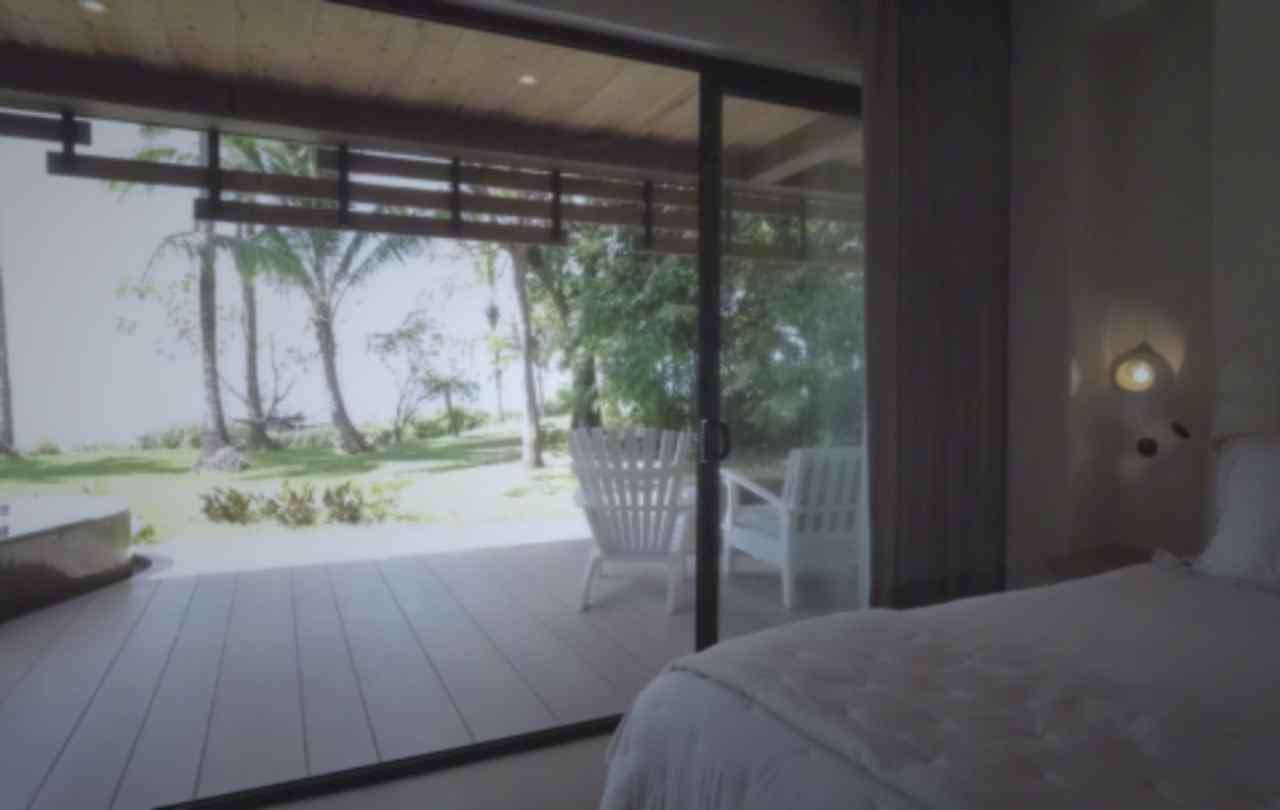
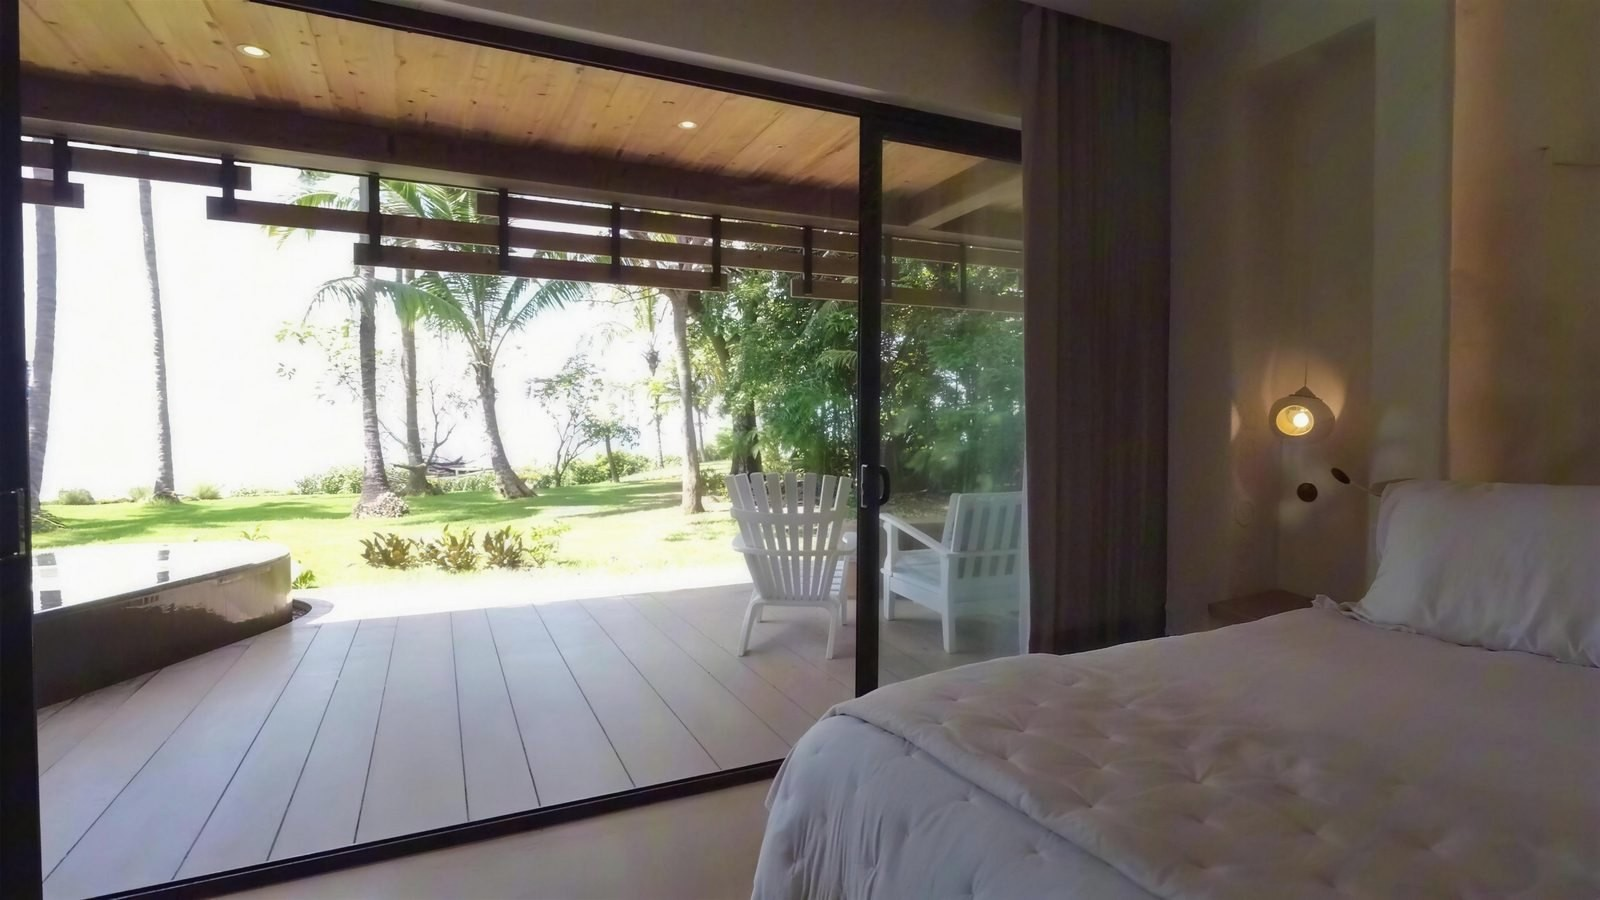
Ajustar landing: estación gancho, fotos antes con color y FAQ reescrito
Agrega estación puente entre portada y "Antes" (ángulo de competencia
de mercado, sin bio de marca genérica), reemplaza las fotos "antes"
degradadas por versiones con color real, arregla overflow de la
estación de Planes, y reescribe preguntas del FAQ con tono más
específico (proceso, pago, precio) en vez de frases genéricas.

diff --git a/index.html b/index.html
@@ -1020,6 +1020,18 @@ footer{position:relative;z-index:2;background:transparent;color:var(--ink2);
 .banda-desde{display:block;margin-top:1.4vh;font-size:11px;letter-spacing:.22em;
   text-transform:uppercase;color:var(--ink2)}
 
+/* Estación "gancho" — una sola idea centrada, sin biografía de marca.
+   Puente entre la portada y "Antes": dos líneas, se lee en dos segundos. */
+.est.gancho{display:flex;flex-direction:column;align-items:center;justify-content:center;
+  text-align:center;gap:2vh;padding:0 4vw}
+.gancho-linea{margin:0;font-weight:300;font-size:clamp(30px,4vw,58px);line-height:1.2;
+  letter-spacing:-.01em;color:var(--ink);max-width:18ch}
+.gancho-sub{display:block;font-size:14px;letter-spacing:.04em;color:var(--ink2)}
+@media(max-width:820px){
+  .gancho-linea{font-size:clamp(24px,7vw,34px)}
+  .gancho-sub{font-size:12.5px}
+}
+
 /* Estación "De estático a movimiento cinematográfico" — una sola fila de 4
    fotos fijas (el punto de partida); el "después" es la estación siguiente
    ("Nuestro valor"), que ya muestra el resultado en movimiento — sin
@@ -1365,6 +1377,7 @@ footer{position:relative;z-index:2;background:transparent;color:var(--ink2);
     <span data-est>05</span>
     <span data-est>06</span>
     <span data-est>07</span>
+    <span data-est>08</span>
   </div>
 </div>
 
@@ -1414,14 +1427,24 @@ footer{position:relative;z-index:2;background:transparent;color:var(--ink2);
 
       </div>
 
-      <!-- 02 — ANTES — así se ve la propiedad en la mayoría de los anuncios,
+      <!-- 02 — GANCHO — puente entre la portada y "Antes". Una sola idea de
+           mercado (competencia por la misma reserva), no una bio de marca:
+           el objetivo es que no se sienta frío pasar de la portada al
+           contraste antes/después, sin caer en el típico párrafo de
+           "quiénes somos". -->
+      <div class="est gancho" data-est-panel data-num="02">
+        <p class="gancho-linea serif">Cientos de propiedades compiten por el mismo huésped.</p>
+        <span class="gancho-sub">Lo primero que ve decide quién gana esa reserva.</span>
+      </div>
+
+      <!-- 03 — ANTES — así se ve la propiedad en la mayoría de los anuncios,
            material tipo foto de celular. Es el "antes" de la comparación:
            el "después" es directamente la estación que sigue, "Nuestro
            valor", que ya muestra el resultado real — no hay que duplicar
            nada acá, la secuencia misma arma el contraste. -->
-      <div class="est comparacion" data-est-panel data-num="02">
+      <div class="est comparacion" data-est-panel data-num="03">
         <div class="seccion-cab">
-          <h2 class="serif">Antes de <em>SHOCK</em></h2>
+          <h2 class="serif">Antes</h2>
           <span class="contador">Así llega la mayoría de las propiedades</span>
         </div>
         <div class="comparacion-mosaico">
@@ -1451,9 +1474,9 @@ footer{position:relative;z-index:2;background:transparent;color:var(--ink2);
            fila) y el texto sigue viviendo dentro de la caja que se abre, o
            sea oculto hasta que alguien lo pide. Una fila por estación, así
            que el problema de alto del 2x2 no aparece. -->
-      <div class="est triptico dos con-intro" id="valor" data-est-panel data-num="03">
+      <div class="est triptico dos con-intro" id="valor" data-est-panel data-num="04">
         <div class="seccion-cab">
-          <h2 class="serif">Nuestro <em>valor</em></h2>
+          <h2 class="serif">Después</h2>
           <span class="contador">Razones 01 — 02</span>
         </div>
         <!-- El manifiesto que antes vivía en la portada ("Tu hospedaje
@@ -1510,7 +1533,7 @@ footer{position:relative;z-index:2;background:transparent;color:var(--ink2);
       </div>
 
       <!-- 03 — NUESTRO VALOR (2/2) — las otras dos razones -->
-      <div class="est triptico dos" data-est-panel data-num="04">
+      <div class="est triptico dos" data-est-panel data-num="05">
         <div class="seccion-cab">
           <h2 class="serif">Nuestro <em>valor</em></h2>
           <span class="contador">Razones 03 — 04</span>
@@ -1566,7 +1589,7 @@ footer{position:relative;z-index:2;background:transparent;color:var(--ink2);
            los cuatro tramos que "Nuestro valor" ya mostró. Mejor sin ese
            hueco que con uno relleno a la fuerza — la estación pasa a ser
            una sola columna centrada. -->
-      <div class="est fichas" id="servicio" data-est-panel data-num="05">
+      <div class="est fichas" id="servicio" data-est-panel data-num="06">
         <div class="fichas-cuerpo">
           <div class="seccion-cab">
             <h2 class="serif">Qué recibís</h2>
@@ -1612,7 +1635,7 @@ footer{position:relative;z-index:2;background:transparent;color:var(--ink2);
            resueltas justo antes de la estación de precios. Mismo componente
            .caja-info que el resto del sitio (clic o hover para abrir), así
            no se suma ningún patrón de interacción nuevo. -->
-      <div class="est fichas preguntas" id="preguntas" data-est-panel data-num="06">
+      <div class="est fichas preguntas" id="preguntas" data-est-panel data-num="07">
         <div class="fichas-cuerpo">
           <div class="seccion-cab">
             <h2 class="serif">Preguntas</h2>
@@ -1623,6 +1646,16 @@ footer{position:relative;z-index:2;background:transparent;color:var(--ink2);
               <span class="n">01</span>
               <div class="caja-info" tabindex="0" role="button" aria-expanded="false">
                 <div class="caja-cab">
+                  <h3>¿Cómo se trabaja?</h3>
+                  <span class="caja-mas">+</span>
+                </div>
+                <p>Nos mandás fotos y video de tu propiedad, lo producimos con dirección de arte e IA de video, lo ajustamos hasta que estés conforme, y lo recibís listo en 72 horas — sin visitas ni coordinación de equipo.</p>
+              </div>
+            </li>
+            <li>
+              <span class="n">02</span>
+              <div class="caja-info" tabindex="0" role="button" aria-expanded="false">
+                <div class="caja-cab">
                   <h3>¿Necesito equipo profesional?</h3>
                   <span class="caja-mas">+</span>
                 </div>
@@ -1630,7 +1663,7 @@ footer{position:relative;z-index:2;background:transparent;color:var(--ink2);
               </div>
             </li>
             <li>
-              <span class="n">02</span>
+              <span class="n">03</span>
               <div class="caja-info" tabindex="0" role="button" aria-expanded="false">
                 <div class="caja-cab">
                   <h3>¿Y si no me convence el resultado?</h3>
@@ -1640,23 +1673,23 @@ footer{position:relative;z-index:2;background:transparent;color:var(--ink2);
               </div>
             </li>
             <li>
-              <span class="n">03</span>
-              <div class="caja-info" tabindex="0" role="button" aria-expanded="false">
-                <div class="caja-cab">
-                  <h3>¿El video queda con restricciones?</h3>
-                  <span class="caja-mas">+</span>
-                </div>
-                <p>No. Una vez entregado es tuyo para siempre — en tu web, tus redes o donde quieras mostrarlo, sin letra chica.</p>
-              </div>
-            </li>
-            <li>
               <span class="n">04</span>
               <div class="caja-info" tabindex="0" role="button" aria-expanded="false">
                 <div class="caja-cab">
-                  <h3>¿Por qué 72 horas y no semanas?</h3>
+                  <h3>¿El pago es seguro?</h3>
                   <span class="caja-mas">+</span>
                 </div>
-                <p>Porque no coordinamos equipo de filmación ni viajes a tu propiedad — la IA de video reemplaza esos pasos, sin sacrificar dirección de arte.</p>
+                <p>Se procesa online con pasarela de pago segura, tarjeta de crédito o débito. Nada se coordina por transferencias informales ni fuera de plataforma.</p>
+              </div>
+            </li>
+            <li>
+              <span class="n">05</span>
+              <div class="caja-info" tabindex="0" role="button" aria-expanded="false">
+                <div class="caja-cab">
+                  <h3>¿El precio que veo es el final?</h3>
+                  <span class="caja-mas">+</span>
+                </div>
+                <p>Sí, sin cargos ocultos. Lo único que puede variar es si necesitás cobertura a medida — y eso se cotiza antes de que pagues un centavo.</p>
               </div>
             </li>
           </ul>
@@ -1669,10 +1702,10 @@ footer{position:relative;z-index:2;background:transparent;color:var(--ink2);
            documento) decide a dónde va según lo que haya en la configuración.
            Así cambiar de procesador de pago es tocar una constante, no seis
            enlaces repartidos por el HTML. -->
-      <div class="est planes" id="catalogo" data-est-panel data-num="07">
+      <div class="est planes" id="catalogo" data-est-panel data-num="08">
         <div class="seccion-cab">
           <h2 class="serif">Planes</h2>
-          <span class="contador">Tres niveles</span>
+          <span class="contador">Tres niveles — ajustes incluidos, tuyo para siempre</span>
         </div>
         <div class="planes-grid">
           <!-- La escalera de planes: los TRES entregables son siempre los
@@ -1739,7 +1772,6 @@ footer{position:relative;z-index:2;background:transparent;color:var(--ink2);
              depende del alcance, así que compararlo al lado de tres precios
              cerrados confunde en vez de ayudar. Vive como una línea al pie
              que abre conversación. -->
-        <p class="planes-pie planes-garantia">Ajustamos cada entrega hasta que sea exactamente lo que tu propiedad merece — no la aprobás, no se publica. Y una vez que es tuya, es tuya para siempre: sin letra chica.</p>
         <p class="planes-pie">¿Necesitás disponibilidad completa — video completo más tomas sueltas
           detalladas, 12 tomas o más, cadenas o varias propiedades?
           <button type="button" class="enlace-pie" data-plan="completa">Pedí una cotización</button>.</p>
